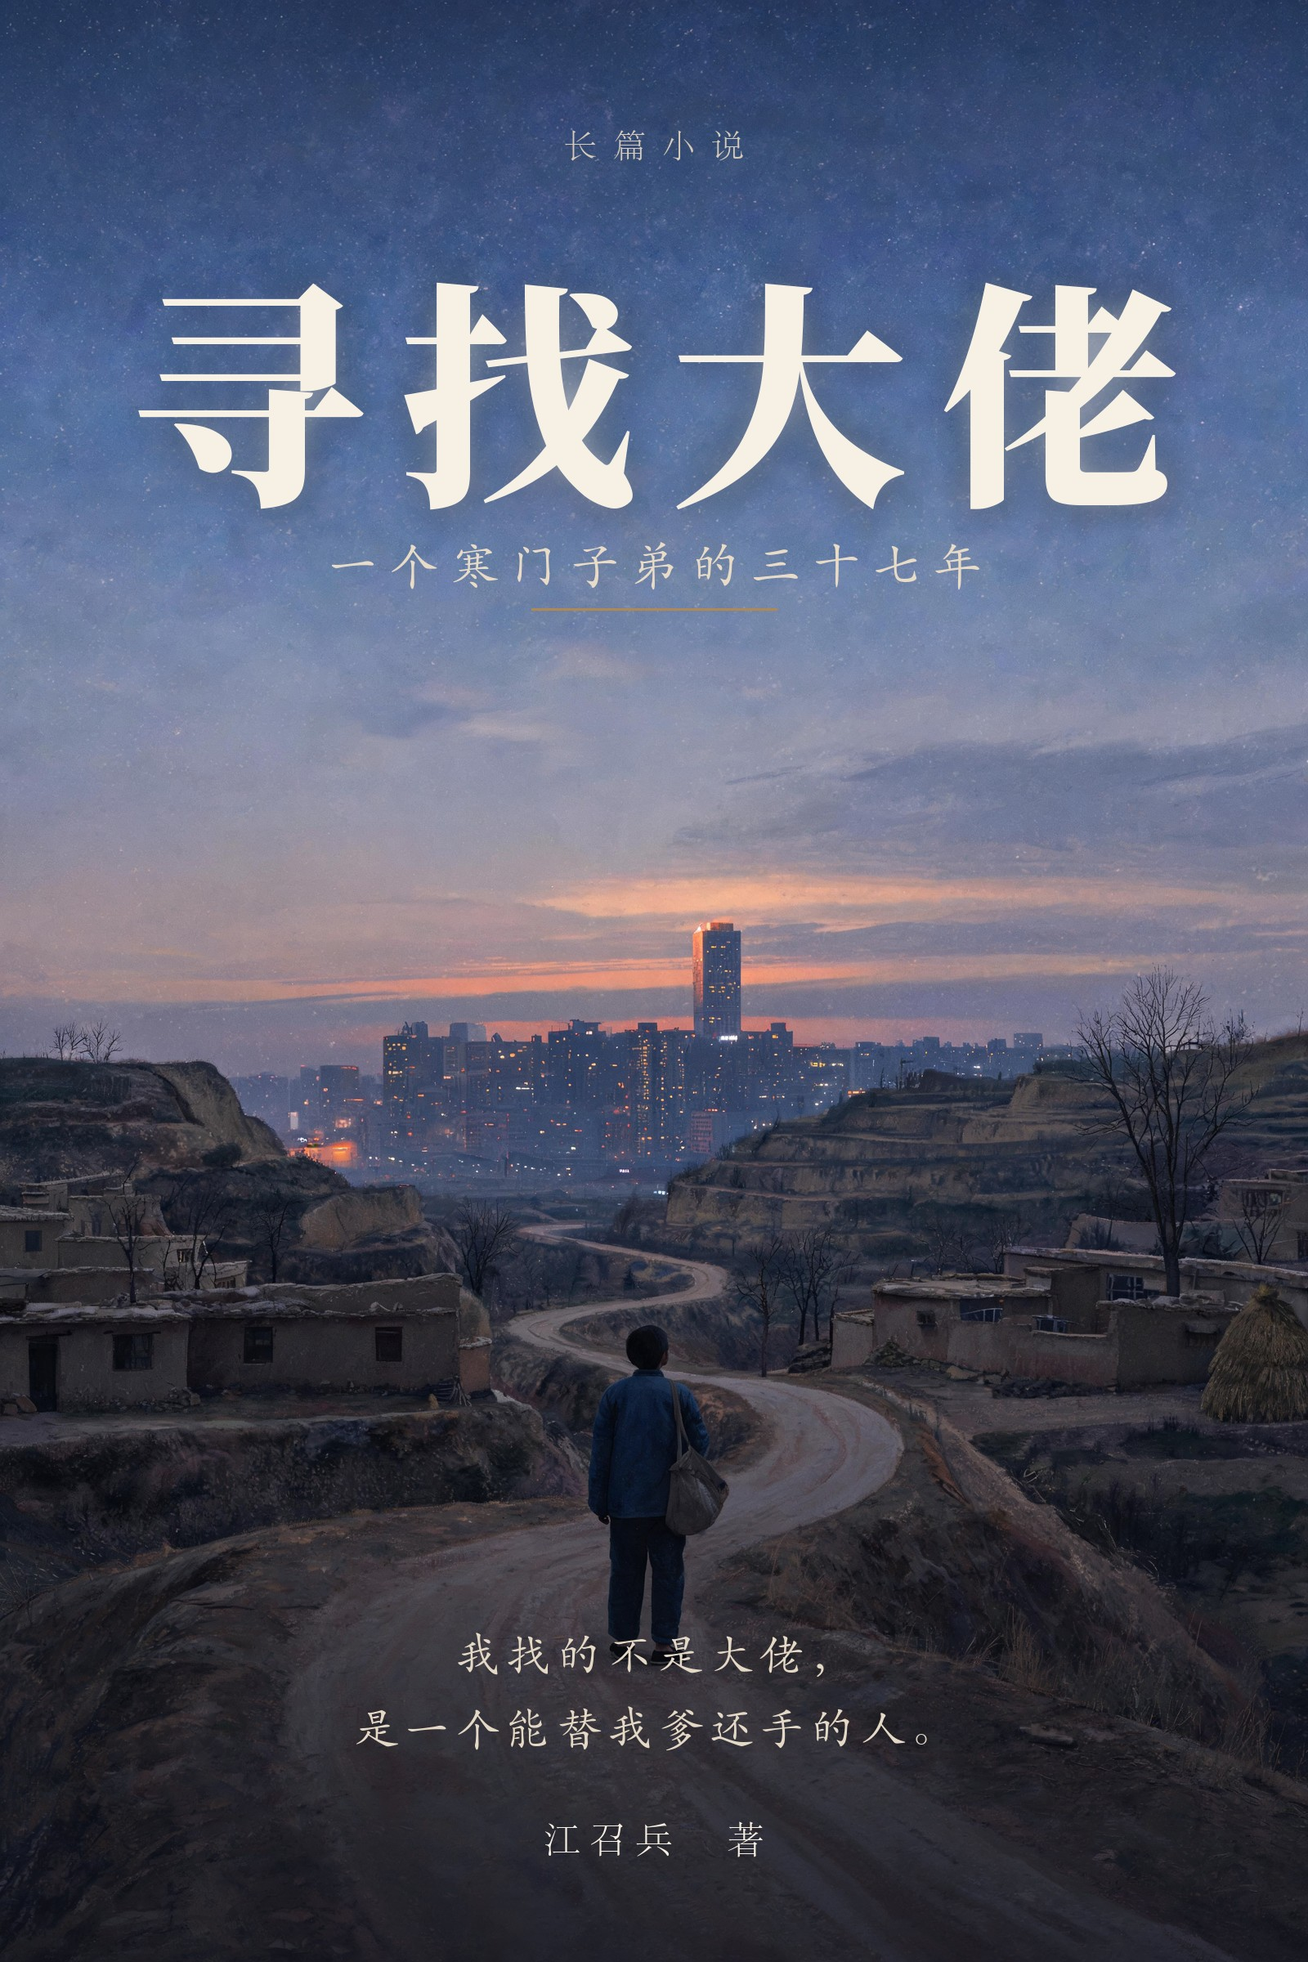
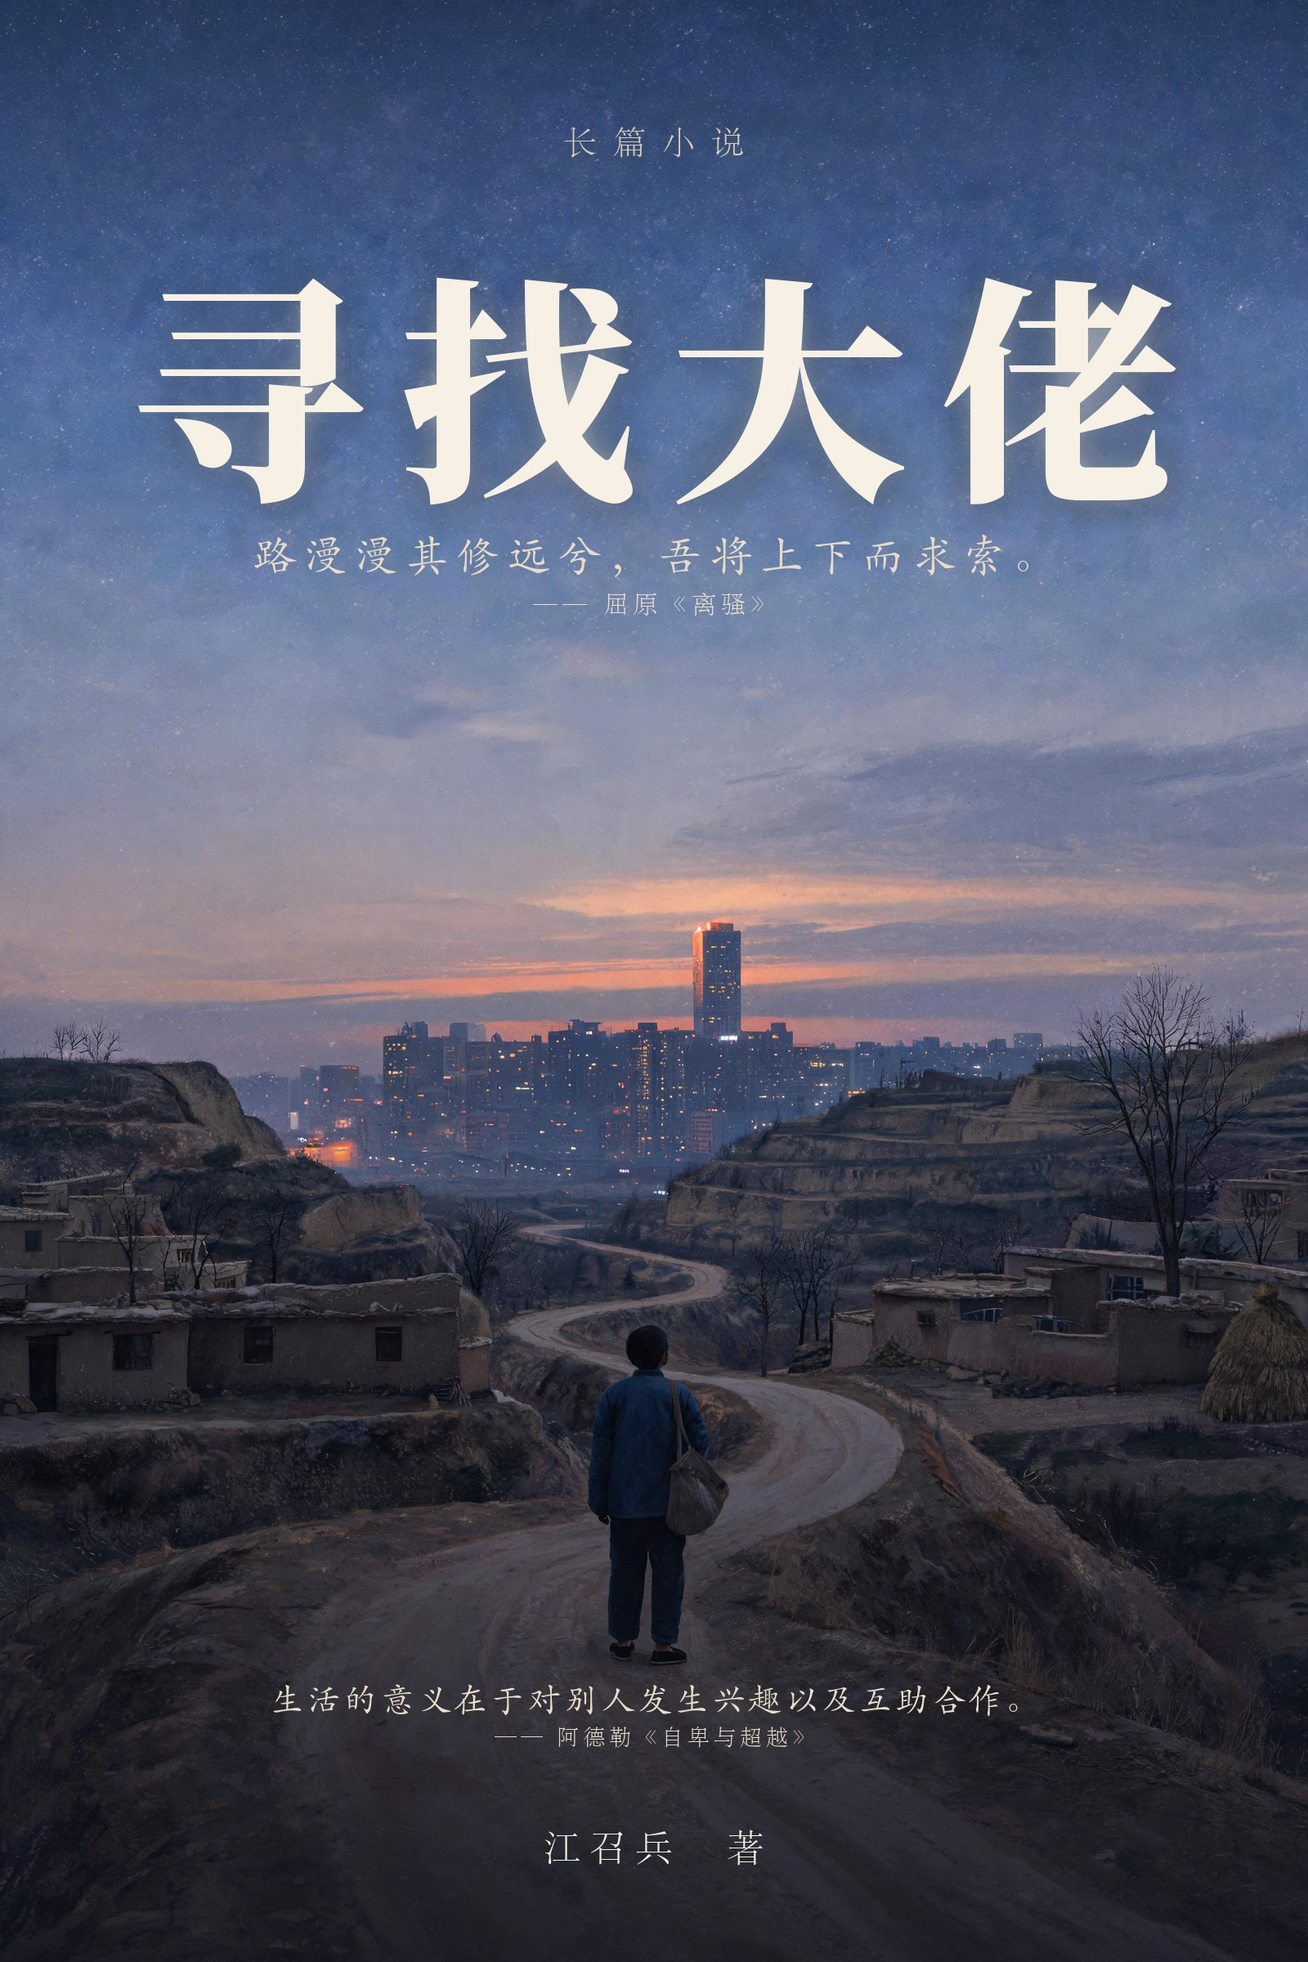
Cover: classical poem and Adler quote replace slogan subtitle

diff --git a/books/xunzhaodalao/index.html b/books/xunzhaodalao/index.html
@@ -1,10 +1,10 @@
-<!DOCTYPE html>
+<!DOCTYPE html>
 <html lang="zh-CN">
 <head>
 <meta charset="UTF-8">
 <meta name="viewport" content="width=device-width, initial-scale=1.0">
 <title>寻找大佬 · 长篇小说 · 江召兵</title>
-<meta name="description" content="江召兵长篇小说《寻找大佬》：一个寒门子弟的三十七年。1989—2026，从陈家坳到MIT。一个总在寻找能拉自己一把的人，最后被学生的一句话问住。五卷四十章，约三十五万字，全书完成。">
+<meta name="description" content="江召兵长篇小说《寻找大佬》：1989—2026，从陈家坳到MIT。一个总在寻找能拉自己一把的人，最后被学生的一句话问住。五卷四十章，约三十五万字，全书完成。">
 <meta name="keywords" content="寻找大佬,江召兵,长篇小说,寒门,成长小说,自卑与超越,阿德勒,个体心理学,全书完成">
 <meta name="author" content="江召兵">
 <meta name="robots" content="index,follow,max-image-preview:large,max-snippet:-1">
@@ -16,12 +16,12 @@
 <meta property="og:locale" content="zh_CN">
 <meta property="og:url" content="https://ZhaobingJiang.github.io/books/xunzhaodalao/">
 <meta property="og:title" content="寻找大佬 · 长篇小说">
-<meta property="og:description" content="一个寒门子弟的三十七年。1989—2026，从陈家坳到MIT。五卷四十章，全书完成。">
-<meta property="og:image" content="https://ZhaobingJiang.github.io/books/xunzhaodalao/cover.jpg?v=1">
+<meta property="og:description" content="1989—2026，从陈家坳到MIT。五卷四十章，约三十五万字，全书完成。">
+<meta property="og:image" content="https://ZhaobingJiang.github.io/books/xunzhaodalao/cover.jpg?v=2">
 <meta name="twitter:card" content="summary_large_image">
 <script type="application/ld+json">
 {"@context":"https://schema.org","@graph":[
-{"@type":"Book","@id":"https://ZhaobingJiang.github.io/books/xunzhaodalao/#book","name":"寻找大佬","alternateName":"一个寒门子弟的三十七年","url":"https://ZhaobingJiang.github.io/books/xunzhaodalao/","inLanguage":"zh-CN","bookFormat":"https://schema.org/EBook","author":{"@type":"Person","name":"江召兵","url":"https://ZhaobingJiang.github.io/"},"abstract":"1989年正月十五，陈家坳社火。七岁的陈志强骑在父亲肩上看灯，散场后，父亲因渠水被人扇了一耳光。他躲在门后，没敢出声。此后三十七年，他一路考出去，也一路寻找能拉自己一把的人：老师、支书、教授、将军、投资人、学术权威。等他站到MIT的报告厅里，一个学生问他：您是怎么找到大佬的？","creativeWorkStatus":"全书完成","isAccessibleForFree":true},
+{"@type":"Book","@id":"https://ZhaobingJiang.github.io/books/xunzhaodalao/#book","name":"寻找大佬","alternateName":"In Search of Patrons","url":"https://ZhaobingJiang.github.io/books/xunzhaodalao/","inLanguage":"zh-CN","bookFormat":"https://schema.org/EBook","author":{"@type":"Person","name":"江召兵","url":"https://ZhaobingJiang.github.io/"},"abstract":"1989年正月十五，陈家坳社火。七岁的陈志强骑在父亲肩上看灯，散场后，父亲因渠水被人扇了一耳光。他躲在门后，没敢出声。此后三十七年，他一路考出去，也一路寻找能拉自己一把的人：老师、支书、教授、将军、投资人、学术权威。等他站到MIT的报告厅里，一个学生问他：您是怎么找到大佬的？","creativeWorkStatus":"全书完成","isAccessibleForFree":true},
 {"@type":"WebSite","@id":"https://ZhaobingJiang.github.io/books/xunzhaodalao/#website","url":"https://ZhaobingJiang.github.io/books/xunzhaodalao/","name":"寻找大佬（网页版）","inLanguage":"zh-CN"}]}
 </script>
 <link rel="stylesheet" href="../../assets/css/style.css">
@@ -67,10 +67,10 @@
 
 <main class="landing">
   <section class="book-hero">
-    <img class="cover" src="cover.jpg?v=1" alt="《寻找大佬》封面：江召兵著，长篇小说，一个寒门子弟的三十七年" width="1600" height="2400">
+    <img class="cover" src="cover.jpg?v=2" alt="《寻找大佬》封面：江召兵著，长篇小说，题记“路漫漫其修远兮，吾将上下而求索”" width="1600" height="2400">
     <div>
       <h1>寻找大佬</h1>
-      <p class="sub">一个寒门子弟的三十七年</p>
+      <p class="sub">路漫漫其修远兮，吾将上下而求索。</p>
       <p class="meta">江召兵 著 · 长篇小说<br>1989—2026 · 陈家坳—杭州—波士顿<br>五卷四十章 · 全书约三十五万字</p>
       <span class="status">全书完成 · 四十章 · 约三十五万字</span>
       <div class="notice">《寻找大佬》为已完稿的长篇小说。本站提供作品梗概、第一章试读，以及全文网页版。</div>
@@ -83,7 +83,7 @@
     <p>一九八九年正月十五，陈家坳。七岁的陈志强骑在父亲肩上看社火，锣鼓把半个天都震响了。散场后，父亲因为渠水的事，被赵德贵扇了一耳光。他躲在门后，从三指宽的门缝里看着，没敢出声。</p>
     <p>那一耳光他记了三十七年。张守义送他一本缺了“佬”字页的旧《新华字典》，何庆丰在灶房里给他一本深蓝硬壳笔记本，扉页上写“记恩，不记人”，周启山给他实验室的钥匙，韩振邦在干休所摆过一桌家宴，安德森在斯坦福问他“你缺的不是聪明，是一个问题”。他一路考出去：县状元、汉江理工、东江科技、普渡硕士、斯坦福博士、MIT 博士后，再回国创业。</p>
     <p>可每往上走一步，自卑就换一副面孔：大学报到那天他不会开电脑；工作第一顿饭不会敬酒；到了美国，口语被人笑；进了顶尖实验室，总觉得自己是混进来的；公司融资，投资人问他“凭什么是你”。他把每一个帮过他的人记在本子上，也把每一份人情折算成数字，藏在心里。</p>
-    <p>秦锦华的八千万、宋鸿远的十八亿、田野的出走、父亲的葬礼、苏晴的分居与复合——他学会了交换，也学会了在纸上写下另一个人的名字。他以为自己在找靠山，直到很多年后才明白，他找的是一个能替他父亲还手的人。</p>
+    <p>秦锦华的八千万、宋鸿远的十八亿、田野的出走、父亲的葬礼、苏晴的分居与复合——他学会了交换，也学会了在纸上写下另一个人的名字。他以为自己在找靠山。很多年后他才明白，他一直想找的，是一个能替父亲把那一耳光还回去的人。</p>
     <p>二〇二六年九月，MIT 报告厅。一个博士生问他：“您是怎么找到大佬的？”他站在台上，突然看见一九八九年门后的那个自己。</p>
     <p>小说以第三人称限知视角推进，把《自卑与超越》的内核化进动作、数字、沉默与身体记忆里，通篇不出现一个心理学名词。写一个人如何带着自卑往上走，也写他走到高处之后，如何把别人拉上来。</p>
   </div>
@@ -91,7 +91,7 @@
   <h2 class="section-h">作品信息</h2>
   <div class="facts">
     <div><b>书名</b>《寻找大佬》</div>
-    <div><b>副题</b>一个寒门子弟的三十七年</div>
+    <div><b>题记</b>路漫漫其修远兮，吾将上下而求索（屈原《离骚》）</div>
     <div><b>作者</b>江召兵</div>
     <div><b>体裁</b>长篇小说</div>
     <div><b>时间</b>1989—2026</div>

diff --git a/books/xunzhaodalao/read.html b/books/xunzhaodalao/read.html
@@ -4,7 +4,7 @@
 <meta charset="UTF-8">
 <meta name="viewport" content="width=device-width, initial-scale=1.0">
 <title>寻找大佬 · 全文在线阅读 · 江召兵</title>
-<meta name="description" content="江召兵长篇小说《寻找大佬》全文在线阅读：一个寒门子弟的三十七年。1989—2026，从陈家坳到MIT。五卷四十章，约三十五万字，全书完成。">
+<meta name="description" content="江召兵长篇小说《寻找大佬》全文在线阅读：1989—2026，从陈家坳到MIT。五卷四十章，约三十五万字，全书完成。">
 <meta name="keywords" content="寻找大佬,江召兵,长篇小说,在线阅读,寒门,自卑与超越,阿德勒,成长小说">
 <meta name="author" content="江召兵">
 <meta name="robots" content="index,follow,max-image-preview:large,max-snippet:-1">
@@ -16,7 +16,7 @@
 <meta property="og:locale" content="zh_CN">
 <meta property="og:url" content="https://ZhaobingJiang.github.io/books/xunzhaodalao/read.html">
 <meta property="og:title" content="寻找大佬 · 全文在线阅读">
-<meta property="og:description" content="一个寒门子弟的三十七年。1989—2026，从陈家坳到MIT。五卷四十章，约三十五万字，全文在线阅读。">
+<meta property="og:description" content="1989—2026，从陈家坳到MIT。五卷四十章，约三十五万字，全文在线阅读。">
 <meta property="og:image" content="https://ZhaobingJiang.github.io/books/xunzhaodalao/cover.jpg?v=1">
 <meta name="twitter:card" content="summary_large_image">
 <script type="application/ld+json">
@@ -66,7 +66,7 @@
   <div class="book-head">
     <img class="web-cover" src="cover.jpg?v=1" alt="《寻找大佬》封面：江召兵著，长篇小说" width="1600" height="2400">
     <h1 class="t">寻找大佬</h1>
-    <div class="s">一个寒门子弟的三十七年</div>
+    <div class="s">路漫漫其修远兮，吾将上下而求索。</div>
     <div class="a">江召兵　著</div>
   </div>
 

diff --git a/scripts/compose_xunzhaodalao_cover.py b/scripts/compose_xunzhaodalao_cover.py
@@ -1,6 +1,10 @@
 # -*- coding: utf-8 -*-
 """Compose the cover of 《寻找大佬》: Dreamina dusk loess art + PIL typography.
 
+Typography:
+  长篇小说 / 寻找大佬 / 屈原《离骚》句（路漫漫其修远兮，吾将上下而求索）
+  / 阿德勒《自卑与超越》句（生活的意义在于对别人发生兴趣以及互助合作）/ 江召兵 著
+
 Input : d:\\tmp_bg\\xzdl_cover\\fa705eba-0e06-4f50-85b3-35fc3ed7716f_image_1.png
 Output: books/xunzhaodalao/cover.jpg (1600x2400), cover-card.jpg (640x960),
         cover_preview.png (800x1200)
@@ -17,6 +21,11 @@ W, H = 1600, 2400
 SERIF_HEAVY = r"C:\Windows\Fonts\Source Han Serif SC Heavy (TrueType).ttf"
 SONG = r"C:\Windows\Fonts\STSONG.TTF"
 KAI = r"C:\Windows\Fonts\STKAITI.TTF"
+
+POEM = "路漫漫其修远兮，吾将上下而求索。"
+POEM_SRC = "—— 屈原《离骚》"
+PSY = "生活的意义在于对别人发生兴趣以及互助合作。"
+PSY_SRC = "—— 阿德勒《自卑与超越》"
 
 
 def font(path, size):
@@ -53,11 +62,11 @@ def main():
     art = art.crop((x0, 0, x0 + tw, art.height)).resize((W, H), Image.LANCZOS)
     base = art.convert("RGBA")
 
-    # bottom gradient so the tagline and author stay legible
+    # bottom gradient so quotes and author stay legible
     grad = Image.new("L", (1, H), 0)
     for y in range(H):
-        t = max(0.0, (y - H * 0.60) / (H * 0.40))
-        grad.putpixel((0, y), int(168 * (t ** 1.25)))
+        t = max(0.0, (y - H * 0.58) / (H * 0.42))
+        grad.putpixel((0, y), int(178 * (t ** 1.2)))
     grad = grad.resize((W, H))
     shade = Image.new("RGBA", (W, H), (14, 16, 26, 255))
     base = Image.composite(shade, base, grad)
@@ -72,53 +81,57 @@ def main():
     base = Image.composite(shade2, base, grad2)
 
     ivory = (247, 240, 228, 255)
-    warm = (232, 219, 200, 235)
-    soft = (214, 203, 186, 220)
-    gold = (176, 136, 84, 255)
+    warm = (232, 219, 200, 238)
+    soft = (214, 203, 186, 215)
+    gold = (182, 142, 90, 235)
 
-    d = ImageDraw.Draw(base)
-
-    # top label
+    # ---- top label ----
     f_label = font(SONG, 40)
-    shadow(base, lambda dd: tracked(dd, (0, 150), "长篇小说", f_label, (12, 14, 22, 210), tracking=20, center_x=W / 2),
+    shadow(base, lambda dd: tracked(dd, (0, 146), "长篇小说", f_label, (12, 14, 22, 210), tracking=20, center_x=W / 2),
            blur=10, alpha=120)
     d = ImageDraw.Draw(base)
-    tracked(d, (0, 150), "长篇小说", f_label, soft, tracking=20, center_x=W / 2)
+    tracked(d, (0, 146), "长篇小说", f_label, soft, tracking=20, center_x=W / 2)
 
-    # title: 4 characters, heavy serif, wide tracking
+    # ---- title ----
     f_title = font(SERIF_HEAVY, 292)
     def draw_title(dd):
-        tracked(dd, (0, 258), "寻找大佬", f_title, ivory, tracking=40, center_x=W / 2)
+        tracked(dd, (0, 252), "寻找大佬", f_title, ivory, tracking=40, center_x=W / 2)
 
-    base = shadow(base, draw_title, blur=22, alpha=170)
+    base = shadow(base, draw_title, blur=22, alpha=175)
     d = ImageDraw.Draw(base)
     draw_title(d)
 
-    # subtitle
-    f_sub = font(KAI, 62)
-    shadow(base, lambda dd: tracked(dd, (0, 648), "一个寒门子弟的三十七年", f_sub, (10, 12, 20, 210), tracking=12, center_x=W / 2),
-           blur=10, alpha=130)
+    # ---- classical poem line under the title ----
+    f_poem = font(KAI, 54)
+    shadow(base, lambda dd: tracked(dd, (0, 642), POEM, f_poem, (6, 8, 16, 215), tracking=8, center_x=W / 2),
+           blur=9, alpha=130)
     d = ImageDraw.Draw(base)
-    tracked(d, (0, 648), "一个寒门子弟的三十七年", f_sub, warm, tracking=12, center_x=W / 2)
+    tracked(d, (0, 642), POEM, f_poem, warm, tracking=8, center_x=W / 2)
 
-    # thin rule under the subtitle
-    d.line([(W / 2 - 150, 745), (W / 2 + 150, 745)], fill=(176, 136, 84, 200), width=3)
-
-    # tagline, two lines, small kaiti
-    f_tag = font(KAI, 56)
-    tag1 = "我找的不是大佬，"
-    tag2 = "是一个能替我爹还手的人。"
-    shadow(base, lambda dd: tracked(dd, (0, 1985), tag1, f_tag, (8, 10, 18, 220), tracking=6, center_x=W / 2), blur=8, alpha=120)
-    shadow(base, lambda dd: tracked(dd, (0, 2075), tag2, f_tag, (8, 10, 18, 220), tracking=6, center_x=W / 2), blur=8, alpha=120)
+    f_src = font(SONG, 30)
+    shadow(base, lambda dd: tracked(dd, (0, 718), POEM_SRC, f_src, (6, 8, 16, 210), tracking=6, center_x=W / 2),
+           blur=11, alpha=185)
     d = ImageDraw.Draw(base)
-    tracked(d, (0, 1985), tag1, f_tag, (228, 216, 198, 225), tracking=6, center_x=W / 2)
-    tracked(d, (0, 2075), tag2, f_tag, (228, 216, 198, 225), tracking=6, center_x=W / 2)
+    tracked(d, (0, 718), POEM_SRC, f_src, (232, 223, 208, 235), tracking=6, center_x=W / 2)
 
-    # author
+    # ---- Adler line, bottom ----
+    f_psy = font(KAI, 42)
+    shadow(base, lambda dd: tracked(dd, (0, 2050), PSY, f_psy, (6, 8, 16, 220), tracking=3, center_x=W / 2),
+           blur=8, alpha=130)
+    d = ImageDraw.Draw(base)
+    tracked(d, (0, 2050), PSY, f_psy, (232, 221, 203, 232), tracking=3, center_x=W / 2)
+
+    f_psy_src = font(SONG, 27)
+    shadow(base, lambda dd: tracked(dd, (0, 2106), PSY_SRC, f_psy_src, (6, 8, 16, 210), tracking=5, center_x=W / 2),
+           blur=7, alpha=115)
+    d = ImageDraw.Draw(base)
+    tracked(d, (0, 2106), PSY_SRC, f_psy_src, (228, 219, 204, 232), tracking=5, center_x=W / 2)
+
+    # ---- author ----
     f_author = font(SONG, 46)
-    shadow(base, lambda dd: tracked(dd, (0, 2218), "江召兵　著", f_author, (8, 10, 18, 220), tracking=10, center_x=W / 2), blur=8, alpha=120)
+    shadow(base, lambda dd: tracked(dd, (0, 2228), "江召兵　著", f_author, (8, 10, 18, 220), tracking=10, center_x=W / 2), blur=8, alpha=120)
     d = ImageDraw.Draw(base)
-    tracked(d, (0, 2218), "江召兵　著", f_author, ivory, tracking=10, center_x=W / 2)
+    tracked(d, (0, 2228), "江召兵　著", f_author, ivory, tracking=10, center_x=W / 2)
 
     os.makedirs(OUT, exist_ok=True)
     cover = base.convert("RGB")
@@ -132,3 +145,5 @@ def main():
 
 if __name__ == "__main__":
     main()
+
+

diff --git a/scripts/build_xunzhaodalao_read.py b/scripts/build_xunzhaodalao_read.py
@@ -1,4 +1,4 @@
-# -*- coding: utf-8 -*-
+# -*- coding: utf-8 -*-
 """Build the full-text web edition of 《寻找大佬》 from chapter markdown."""
 from pathlib import Path
 import re
@@ -9,7 +9,7 @@ OUT = Path(r"D:\deepseek-harness\OpatiyaAgent\JiangZhaobing.github.io\books\xunz
 
 SLUG = "xunzhaodalao"
 TITLE = "寻找大佬"
-SUBTITLE = "一个寒门子弟的三十七年"
+SUBTITLE = "路漫漫其修远兮，吾将上下而求索。"
 WORDS = "约三十五万字"
 
 # (volume title, era, first chapter number, last chapter number); chapter 0 is the 楔子
@@ -103,7 +103,7 @@ html_doc = f"""<!DOCTYPE html>
 <meta charset="UTF-8">
 <meta name="viewport" content="width=device-width, initial-scale=1.0">
 <title>{TITLE} · 全文在线阅读 · 江召兵</title>
-<meta name="description" content="江召兵长篇小说《{TITLE}》全文在线阅读：一个寒门子弟的三十七年。1989—2026，从陈家坳到MIT。五卷四十章，{WORDS}，全书完成。">
+<meta name="description" content="江召兵长篇小说《{TITLE}》全文在线阅读：1989—2026，从陈家坳到MIT。五卷四十章，{WORDS}，全书完成。">
 <meta name="keywords" content="{TITLE},江召兵,长篇小说,在线阅读,寒门,自卑与超越,阿德勒,成长小说">
 <meta name="author" content="江召兵">
 <meta name="robots" content="index,follow,max-image-preview:large,max-snippet:-1">
@@ -115,7 +115,7 @@ html_doc = f"""<!DOCTYPE html>
 <meta property="og:locale" content="zh_CN">
 <meta property="og:url" content="https://ZhaobingJiang.github.io/books/{SLUG}/read.html">
 <meta property="og:title" content="{TITLE} · 全文在线阅读">
-<meta property="og:description" content="一个寒门子弟的三十七年。1989—2026，从陈家坳到MIT。五卷四十章，{WORDS}，全文在线阅读。">
+<meta property="og:description" content="1989—2026，从陈家坳到MIT。五卷四十章，{WORDS}，全文在线阅读。">
 <meta property="og:image" content="https://ZhaobingJiang.github.io/books/{SLUG}/cover.jpg?v=1">
 <meta name="twitter:card" content="summary_large_image">
 <script type="application/ld+json">
